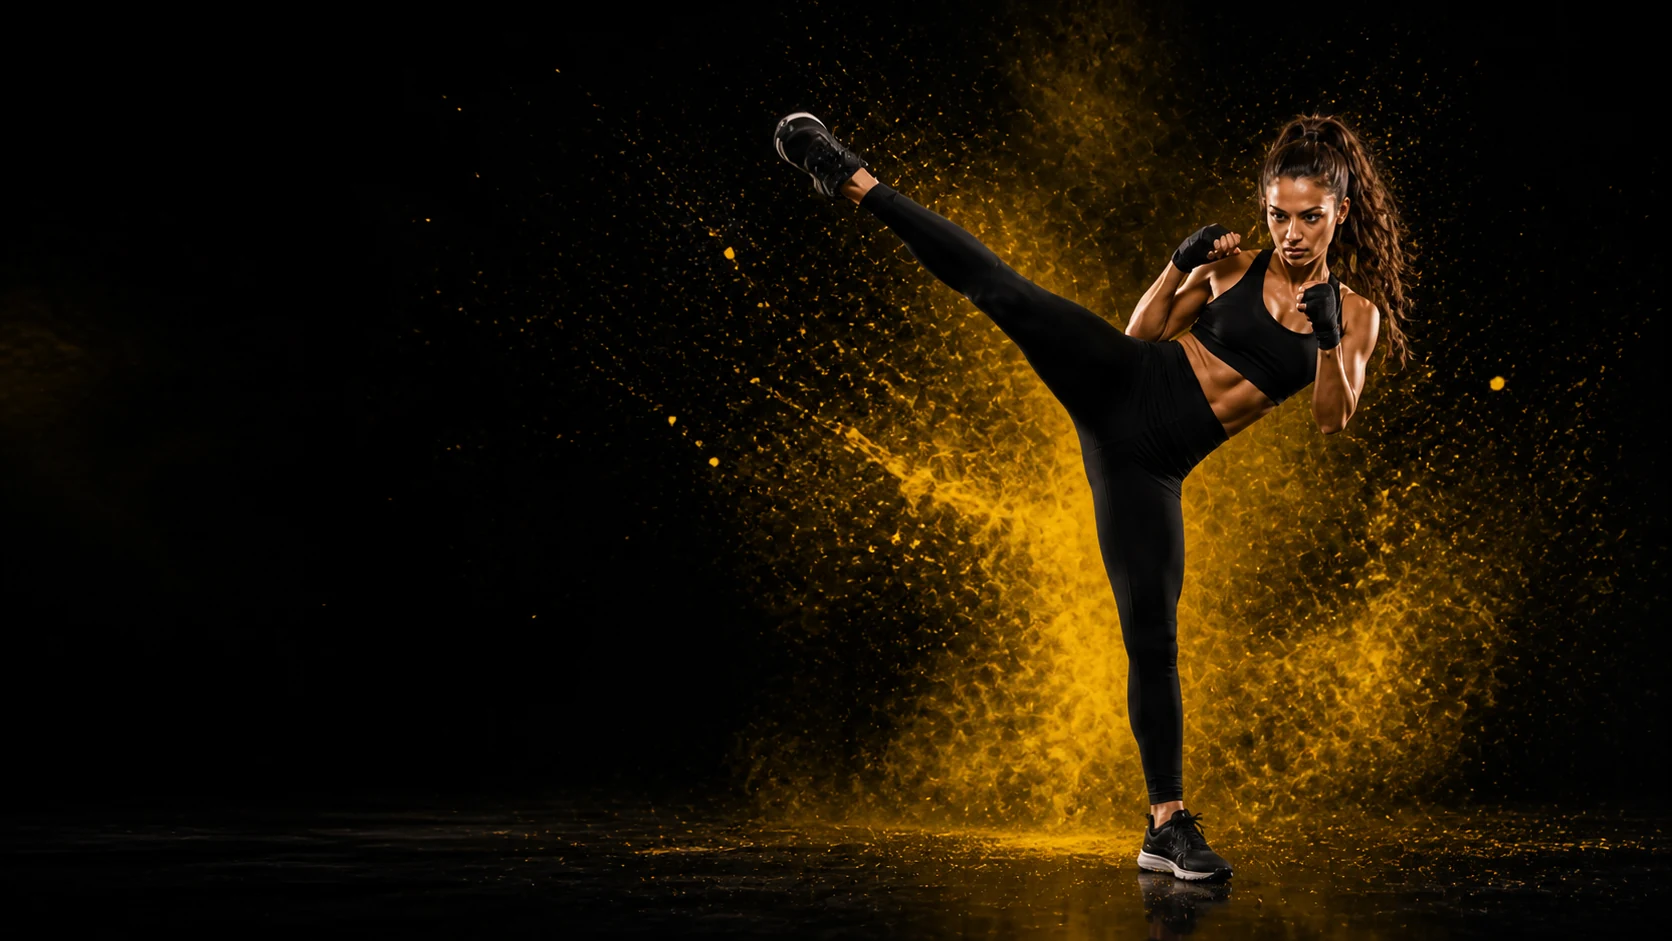
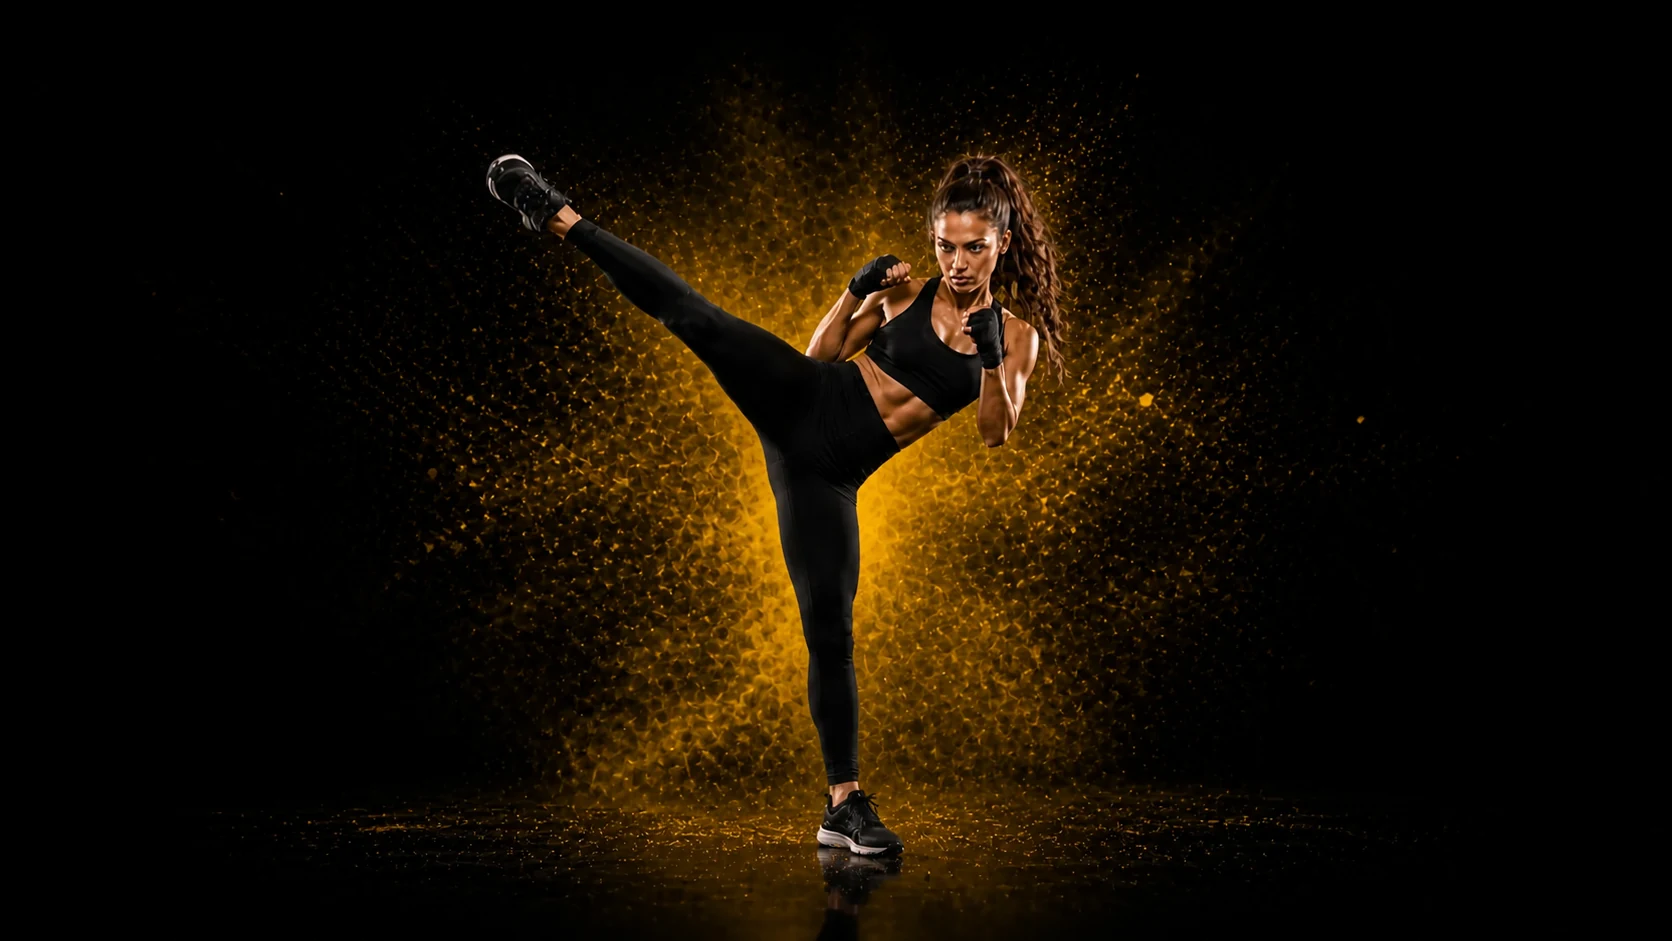
Recenter training hero photography

diff --git a/src/styles.css b/src/styles.css
@@ -595,9 +595,13 @@ body.modal-open{overflow:hidden;overscroll-behavior:none}.live-admin{max-width:8
 .training-page-hero{aspect-ratio:16/9}
 @media(max-width:560px){.training-page-hero{display:flex;min-height:0;aspect-ratio:auto;flex-direction:column;padding:0;background:#030303}.training-page-photo{position:relative;inset:auto;width:100%;aspect-ratio:16/9;flex:0 0 auto}.training-page-photo img,.training-page-hero[data-training] .training-page-photo img{object-fit:contain;object-position:center!important}.training-page-photo:after{background:radial-gradient(circle at 50% 52%,#ffd21f30 0,transparent 52%),linear-gradient(0deg,#030303a8 0,transparent 34%)}.training-page-hero:after{display:none}.training-page-copy{position:relative;left:auto;right:auto;bottom:auto;width:auto;padding:13px 16px 18px;text-align:center}.training-page-copy h1{font-size:clamp(34px,10.5vw,49px)}.training-directory-grid>a{display:block;position:relative}.training-directory-grid>a>div{position:absolute;inset:0;width:100%;height:100%}.training-directory-grid img{width:100%;height:100%;transform:translateY(7px) scale(1.1);object-fit:contain}.training-directory-grid>a>span{position:absolute;z-index:2;right:0;bottom:0;left:0;display:flex;min-height:65px;justify-content:flex-end;padding:12px 7px 6px;background:linear-gradient(0deg,#fff8dfc7 0,#fff8df73 62%,transparent 100%)}.training-directory-grid strong,.training-directory-grid small{text-shadow:0 1px 3px #fff,0 0 6px #fff}}
 
-/* The photography already carries the gold energy effect; keep it clean and center the athlete on narrow screens. */
-.training-page-hero:before{display:none}
-@media(max-width:560px){.training-page-photo{overflow:hidden}.training-page-photo img,.training-page-hero[data-training] .training-page-photo img{object-fit:cover;transform:translateX(-18%) scale(1.12)}}
+/* The rebuilt photography is centered in the source files, so show it without artificial shifting or decorative overlays. */
+.training-page-hero{display:flex;min-height:0;aspect-ratio:auto;flex-direction:column;padding:0;background:#030303}
+.training-page-hero:before,.training-page-hero:after{display:none}
+.training-page-photo{position:relative;inset:auto;width:100%;aspect-ratio:16/9;flex:0 0 auto;overflow:hidden}
+.training-page-photo img,.training-page-hero[data-training] .training-page-photo img{object-fit:cover;object-position:center!important;transform:none}
+.training-page-copy{position:relative;left:auto;right:auto;bottom:auto;width:auto;padding:20px 34px 26px;text-align:center}
+@media(max-width:560px){.training-page-copy{padding:13px 16px 18px}}
 
 /* Shareable public links in the common admin panel. */
 .training-links-panel{padding:16px;border:1px solid #e0e5e2;border-radius:18px;background:#fff;box-shadow:0 12px 28px #14161c12}.training-links-panel>.admin-section-heading{margin:0 0 7px}.training-links-panel>p{margin:0 0 14px;color:#69746e;font-size:10px;line-height:1.5}.training-links-list{display:grid;gap:8px}.training-links-list article{display:grid;grid-template-columns:62px minmax(0,1fr) 96px;align-items:center;gap:10px;min-height:76px;overflow:hidden;border:1px solid #e9dcaa;border-radius:15px;background:linear-gradient(145deg,#fff,#fffcf1);padding:7px 9px 7px 7px}.training-link-art{display:grid;width:62px;height:62px;place-items:center;border-radius:12px;background:radial-gradient(circle,#ffe26462,transparent 70%)}.training-link-art img{width:58px;height:66px;transform:scale(1.2);object-fit:contain;filter:drop-shadow(0 0 6px #ffc928)}.training-link-details{min-width:0}.training-link-details strong,.training-link-details a{display:block}.training-link-details strong{font-size:15px;line-height:1.1}.training-link-details a{margin-top:6px;overflow-wrap:anywhere;color:#737b76;font-size:9px;font-weight:750;line-height:1.35;text-decoration:none}.training-links-list article>button{min-height:39px;border:0;border-radius:10px;background:#edf8f2;color:#126d49;font-size:10px;font-weight:950}.training-links-list article>button.copied{background:#19aa65;color:#fff;box-shadow:0 0 14px #19aa6545}
